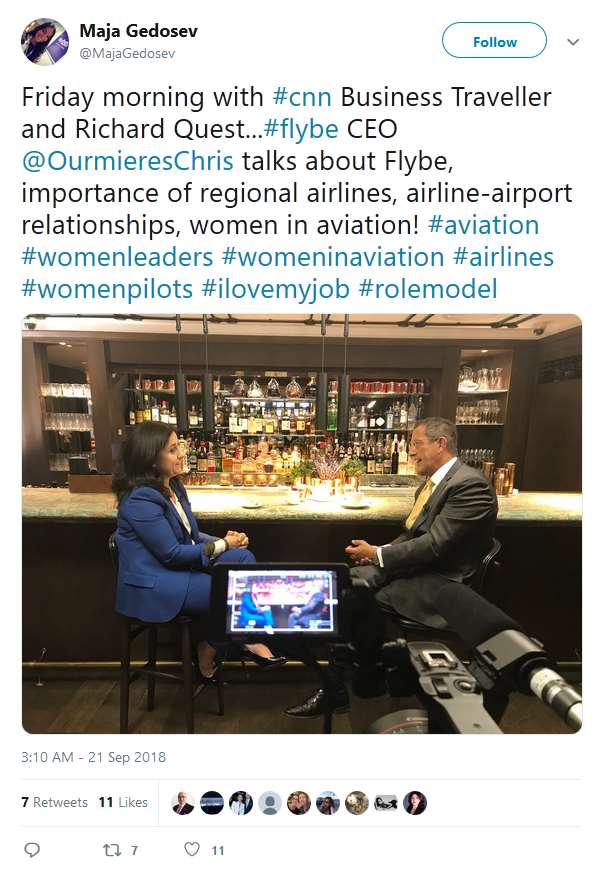
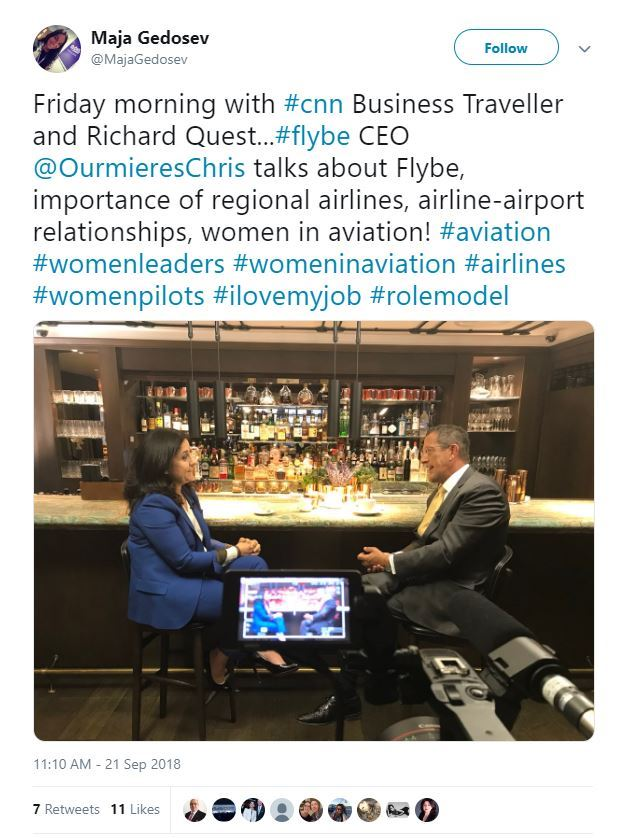
Update for #4 Leaking of price sensitive information
+ Update tweet images to ensure GMT timezone
+ JS getLastNum

diff --git a/index.html b/index.html
@@ -20,7 +20,7 @@
                     flybeplc@protonmail.com</a></div>
             <div>This page is not associated to any of the people or companies mentioned.
                 <br />Last updated: 2019-01-19
-                09:03 UTC</div>
+                10:45 UTC</div>
         </div>
     </header>
 
@@ -238,12 +238,12 @@
                 </div>
 
                 <div class="tl__content js-cd-content">
-                    <h2 data-ln="10.1">CEO retweets about interview with CNN</h2>
+                    <h2 data-ln="10.2">CEO retweets about interview with CNN</h2>
                     <p>CNN interview is not aired until almost 2 months later on Nov 15.</p>
                     <img src="img/2018-09-21-tweet-interview.jpg" data-activate="2018-09-21-tweet-interview" />
-                    <a href="https://twitter.com/MajaGedosev/status/1043079903648907264" class="tl__read-more" target="_blank">Read
-                        more</a>
-                    <span class="tl__date">2018 Sep 21</span>
+                    <a href="https://twitter.com/MajaGedosev/status/1043079903648907264" class="tl__read-more" target="_blank">See
+                        on Twitter</a>
+                    <span class="tl__date">2018 Sep 21 - 11:10</span>
                 </div>
             </div>
 
@@ -320,6 +320,33 @@
                     <span class="tl__date">2018 Nov 12</span>
                 </div>
             </div>
+
+            <div class="tl__block js-cd-block">
+                <div class="tl__img tl__img--movie js-cd-img">
+                    <!-- <img src="img/cd-icon-movie.svg" alt="Movie"> -->
+                </div>
+
+                <div class="tl__content js-cd-content">
+                    <h2 data-ln="32.1">Leak of price sensitive information</h2>
+                    <p>Mark Kleinman, City editor at Sky news and City AM columnist posts tweet to article 47 minutes
+                        after OTC markets in the USA close. He claims Flybe will be put up for sale tomorrow.</p>
+                    <p>
+
+                        <img src="img/2018-11-13-tweet-markkleinman.jpg" data-activate="2018-11-13-tweet-markkleinman" />
+                    </p>
+                    <p>
+                        Though Flybe is not listed in the USA it is traded Over-The-Counter with trading open
+                        9:30-16:00 EST Mon-Fri.
+                        The tweet is posted 21:47 GMT, 16:47 EST. The article has a later timestamp of 23:35 GMT, 18:35
+                        EST
+                    </p>
+                    <a href="https://twitter.com/MarkKleinmanSky/status/1062461879870734336" class="tl__read-more"
+                        target="_blank">See on Twitter</a>
+                    <span class="tl__date">2018 Nov 13 - 21:47</span>
+                </div>
+            </div>
+
+
 
             <div class="tl__block js-cd-block">
                 <div class="tl__img tl__img--movie js-cd-img">
@@ -699,14 +726,14 @@
                 </div>
 
                 <div class="tl__content js-cd-content">
-                    <h2 data-ln="26.1">Business as usual</h2>
+                    <h2 data-ln="26.2">Business as usual</h2>
                     <p>Team raises money for Cancer Research UK</p>
                     <p>
                         <img src="img/2018-12-20-tweet-cruk.jpg" data-activate="2018-12-20-tweet-cruk" />
                     </p>
-                    <a href="https://twitter.com/flybe/status/1075795819125706755" class="tl__read-more" target="_blank">Read
-                        more</a>
-                    <span class="tl__date">2018 Dec 20</span>
+                    <a href="https://twitter.com/flybe/status/1075795819125706755" class="tl__read-more" target="_blank">See
+                        on Twitter</a>
+                    <span class="tl__date">2018 Dec 20 - 16:51</span>
                 </div>
             </div>
 
@@ -887,6 +914,7 @@
         <img src="img/2018-03-07-website.png" id="2018-03-07-website" />
         <img src="img/gatwick.jpg" id="gatwick" />
         <img src="img/ourvalues.png" id="ourvalues" />
+        <img src="img/2018-11-13-tweet-markkleinman.jpg" id="2018-11-13-tweet-markkleinman" />
         <span class="lightbox-close"></span>
     </div>
 

diff --git a/js/main.js b/js/main.js
@@ -94,3 +94,7 @@
 		document.querySelector(".lightbox-target").classList.remove("active");
 	}
 })();
+
+function getLastNum() {
+	return [].slice.call(document.querySelectorAll('[data-ln]')).map(e => +e.dataset['ln']).sort((a, b) => a - b).reverse()[0]
+}
